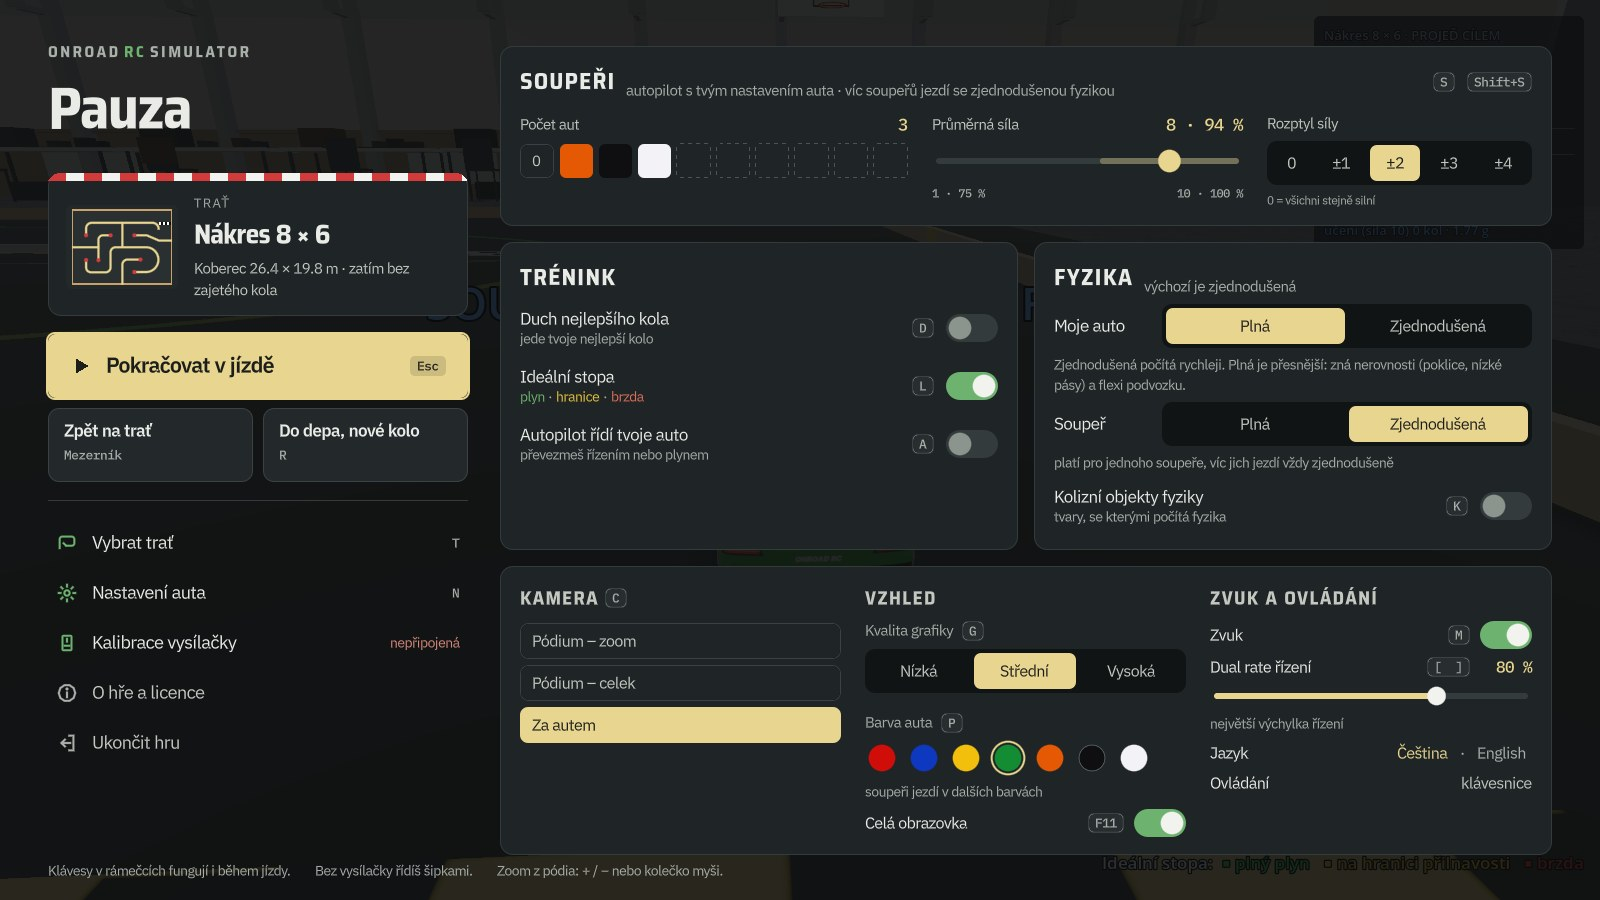
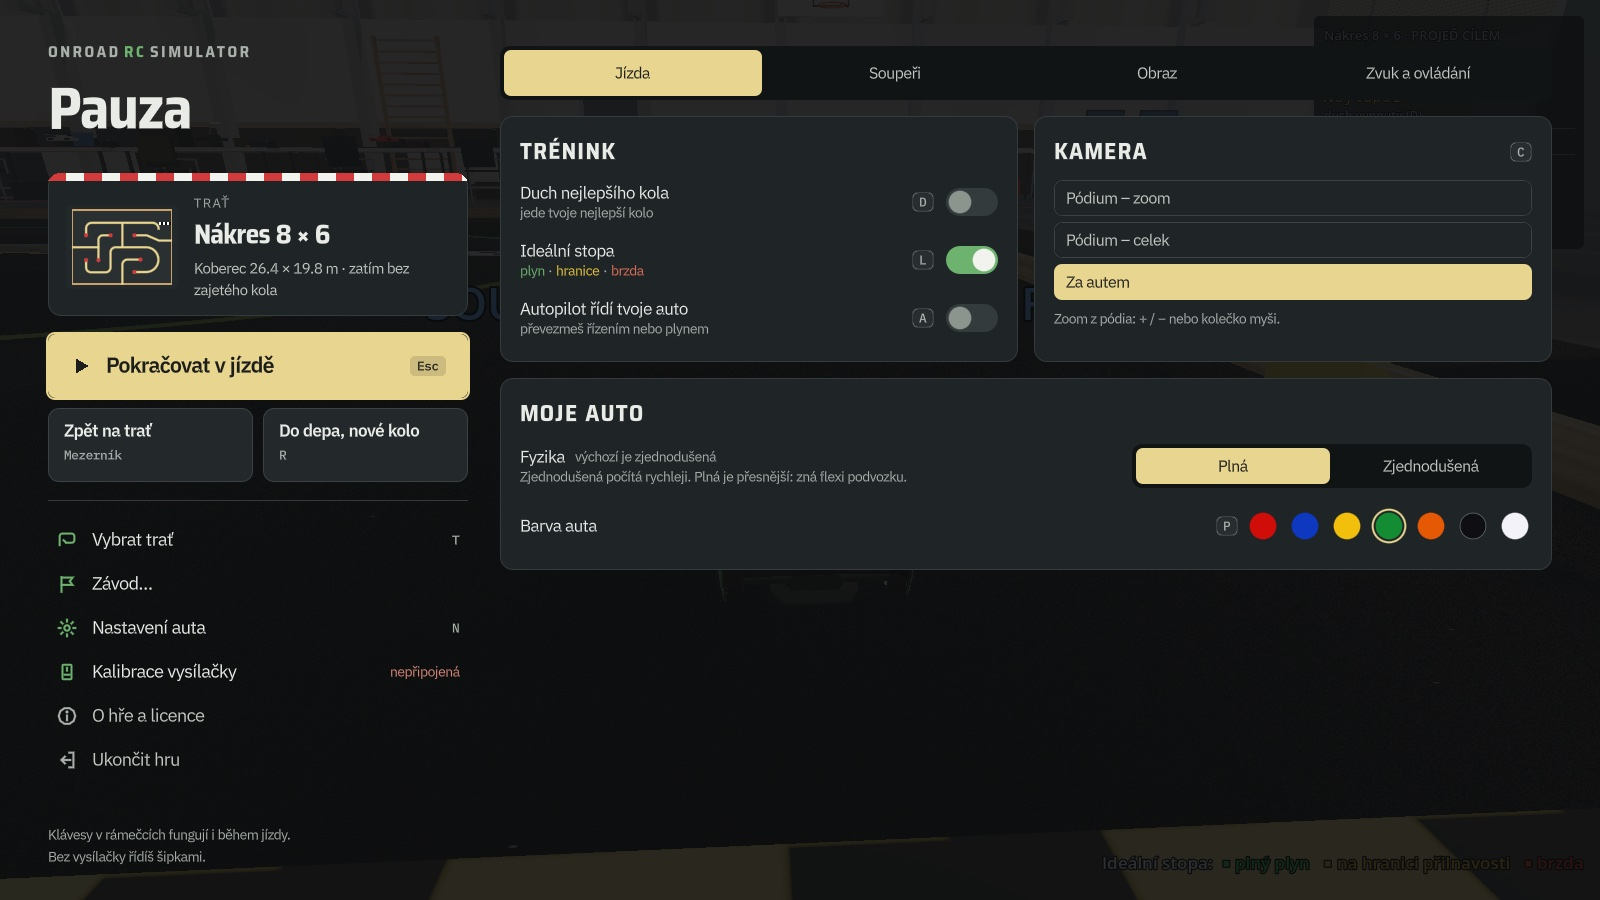
Verze 0.65: menu na záložky, nový snímek menu

diff --git a/index.html b/index.html
@@ -248,7 +248,7 @@ footer .logo-sm { flex-basis: 100%; }
           <a class="btn-line" id="download-win" href="https://github.com/ibb-jile/onroad-rc-simulator/releases/latest/download/Onroad-RC-Simulator-Windows.zip"><span lang="cs">Windows (experimentální)</span><span lang="en">Windows (experimental)</span></a>
           <a href="#install"><span lang="cs">Jak nainstalovat</span><span lang="en">How to install</span></a>
         </div>
-        <p class="facts"><span lang="cs">Verze 0.64 · macOS 13 a novější · Mac s čipem Apple (M1 a novější) · zip 70 MB</span><span lang="en">Version 0.64 · macOS 13 or later · Mac with Apple silicon (M1 or later) · 70 MB zip</span></p>
+        <p class="facts"><span lang="cs">Verze 0.65 · macOS 13 a novější · Mac s čipem Apple (M1 a novější) · zip 70 MB</span><span lang="en">Version 0.65 · macOS 13 or later · Mac with Apple silicon (M1 or later) · 70 MB zip</span></p>
         <p class="facts"><span lang="cs">Windows 10 a 11 (64bit) · první sestavení, na skutečném PC zatím nevyzkoušené · zip 53 MB</span><span lang="en">Windows 10 and 11 (64-bit) · first build, not yet tried on a real PC · 53 MB zip</span></p>
       </div>
       <aside class="board" aria-label="Lap times">
@@ -424,8 +424,8 @@ footer .logo-sm { flex-basis: 100%; }
           <figcaption><span lang="cs">Výběr trati: seznam s plánky, filtr hala a venkovní, hledání a náhled vybrané trati.</span><span lang="en">Track picker: a list with plans, a hall and outdoor filter, search and a preview of the selected track.</span></figcaption>
         </figure>
         <figure>
-          <img src="img/menu.jpg" width="1600" height="900" loading="lazy" alt="Game menu opened with Esc: opponents, practice tools, physics, camera, graphics quality, sound and controls, with the full screen switch">
-          <figcaption><span lang="cs">Menu (Esc): soupeři, trénink, fyzika, kamera, kvalita grafiky, zvuk a ovládání, včetně přepínače celé obrazovky.</span><span lang="en">Menu (Esc): opponents, practice tools, physics, camera, graphics quality, sound and controls, including the full screen switch.</span></figcaption>
+          <img src="img/menu.jpg" width="1600" height="900" loading="lazy" alt="Game menu opened with Esc, split into four tabs: Driving, Opponents, Display, Sound and controls">
+          <figcaption><span lang="cs">Menu (Esc): volby ve čtyřech záložkách – Jízda, Soupeři, Obraz, Zvuk a ovládání.</span><span lang="en">Menu (Esc): options in four tabs – Driving, Opponents, Display, Sound and controls.</span></figcaption>
         </figure>
       </div>
     </div>

diff --git a/src/page.html b/src/page.html
@@ -242,7 +242,7 @@ footer .logo-sm { flex-basis: 100%; }
           <a class="btn-line" id="download-win" href="https://github.com/ibb-jile/onroad-rc-simulator/releases/latest/download/Onroad-RC-Simulator-Windows.zip"><span lang="cs">Windows (experimentální)</span><span lang="en">Windows (experimental)</span></a>
           <a href="#install"><span lang="cs">Jak nainstalovat</span><span lang="en">How to install</span></a>
         </div>
-        <p class="facts"><span lang="cs">Verze 0.64 · macOS 13 a novější · Mac s čipem Apple (M1 a novější) · zip 70 MB</span><span lang="en">Version 0.64 · macOS 13 or later · Mac with Apple silicon (M1 or later) · 70 MB zip</span></p>
+        <p class="facts"><span lang="cs">Verze 0.65 · macOS 13 a novější · Mac s čipem Apple (M1 a novější) · zip 70 MB</span><span lang="en">Version 0.65 · macOS 13 or later · Mac with Apple silicon (M1 or later) · 70 MB zip</span></p>
         <p class="facts"><span lang="cs">Windows 10 a 11 (64bit) · první sestavení, na skutečném PC zatím nevyzkoušené · zip 53 MB</span><span lang="en">Windows 10 and 11 (64-bit) · first build, not yet tried on a real PC · 53 MB zip</span></p>
       </div>
       <aside class="board" aria-label="Lap times">
@@ -418,8 +418,8 @@ footer .logo-sm { flex-basis: 100%; }
           <figcaption><span lang="cs">Výběr trati: seznam s plánky, filtr hala a venkovní, hledání a náhled vybrané trati.</span><span lang="en">Track picker: a list with plans, a hall and outdoor filter, search and a preview of the selected track.</span></figcaption>
         </figure>
         <figure>
-          <img src="img/menu.jpg" width="1600" height="900" loading="lazy" alt="Game menu opened with Esc: opponents, practice tools, physics, camera, graphics quality, sound and controls, with the full screen switch">
-          <figcaption><span lang="cs">Menu (Esc): soupeři, trénink, fyzika, kamera, kvalita grafiky, zvuk a ovládání, včetně přepínače celé obrazovky.</span><span lang="en">Menu (Esc): opponents, practice tools, physics, camera, graphics quality, sound and controls, including the full screen switch.</span></figcaption>
+          <img src="img/menu.jpg" width="1600" height="900" loading="lazy" alt="Game menu opened with Esc, split into four tabs: Driving, Opponents, Display, Sound and controls">
+          <figcaption><span lang="cs">Menu (Esc): volby ve čtyřech záložkách – Jízda, Soupeři, Obraz, Zvuk a ovládání.</span><span lang="en">Menu (Esc): options in four tabs – Driving, Opponents, Display, Sound and controls.</span></figcaption>
         </figure>
       </div>
     </div>
